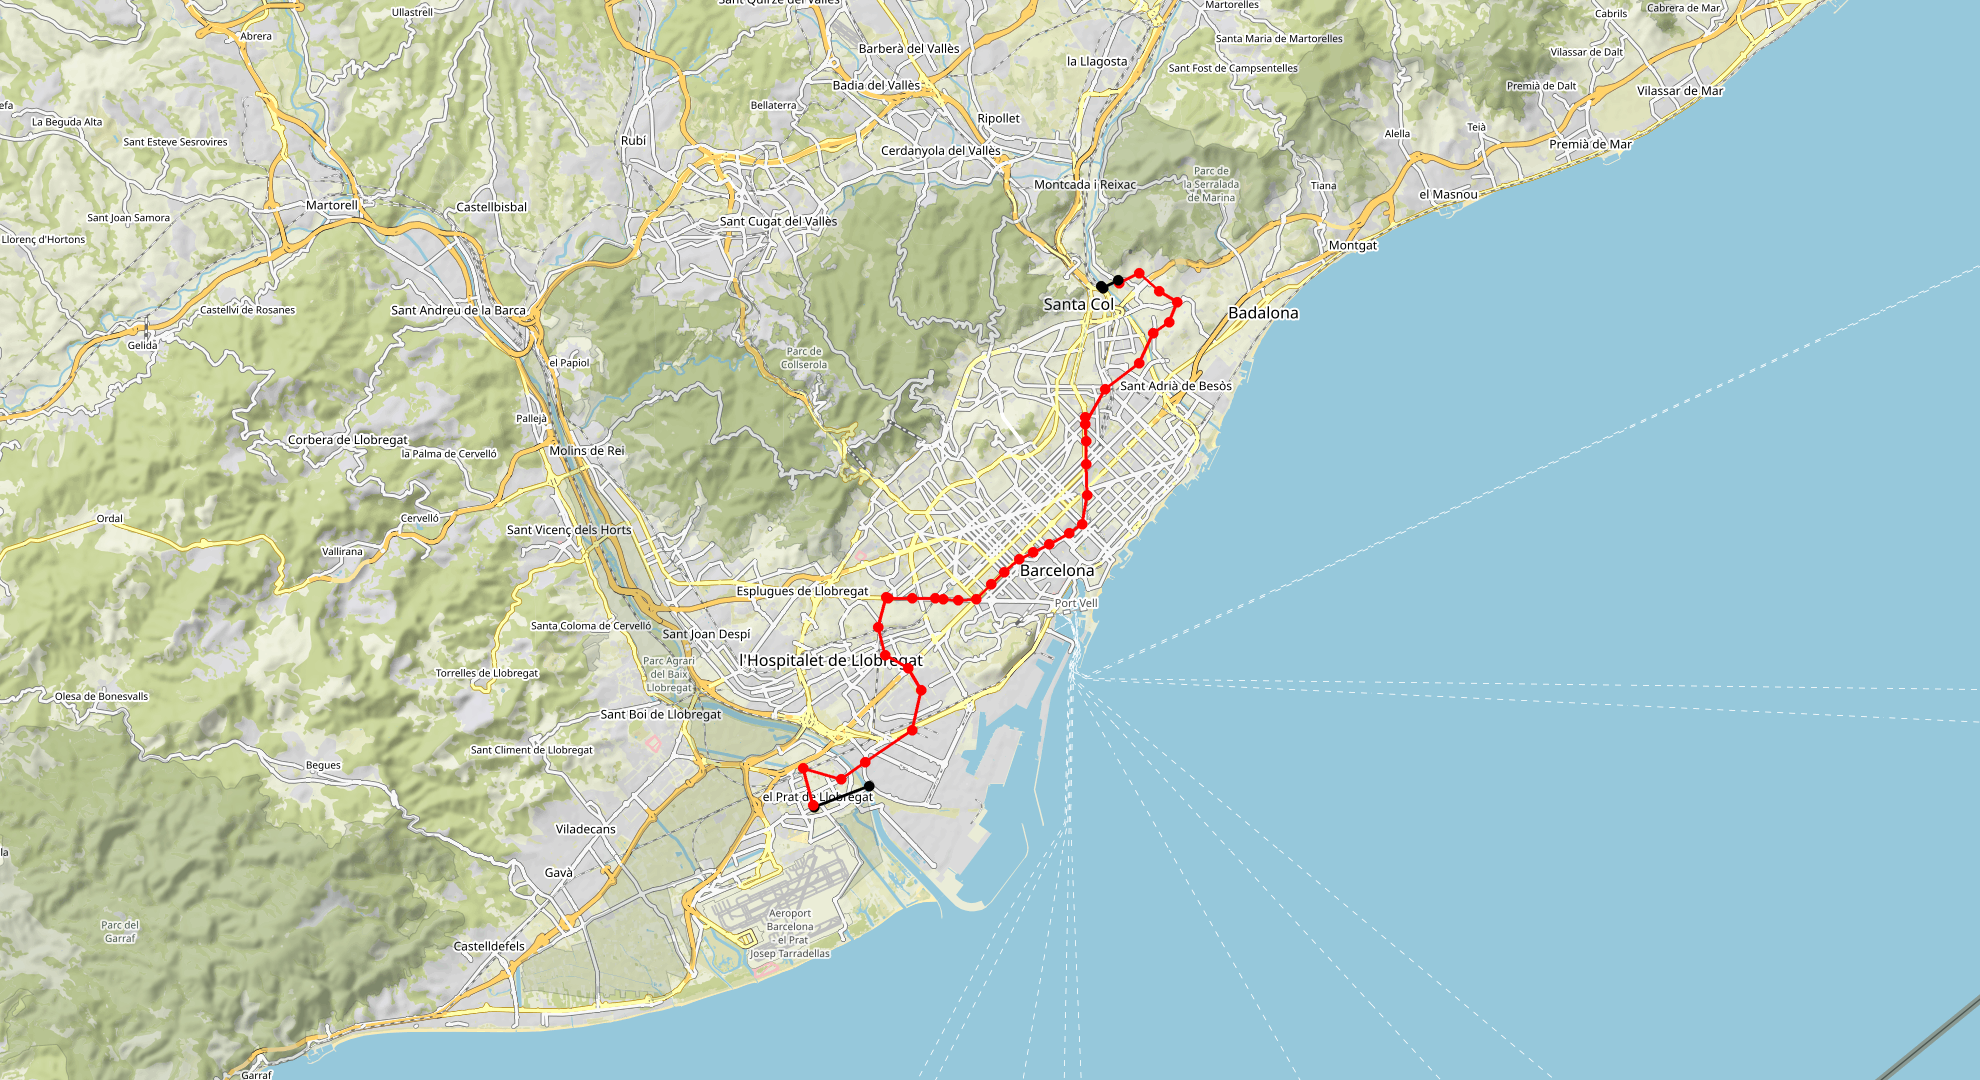
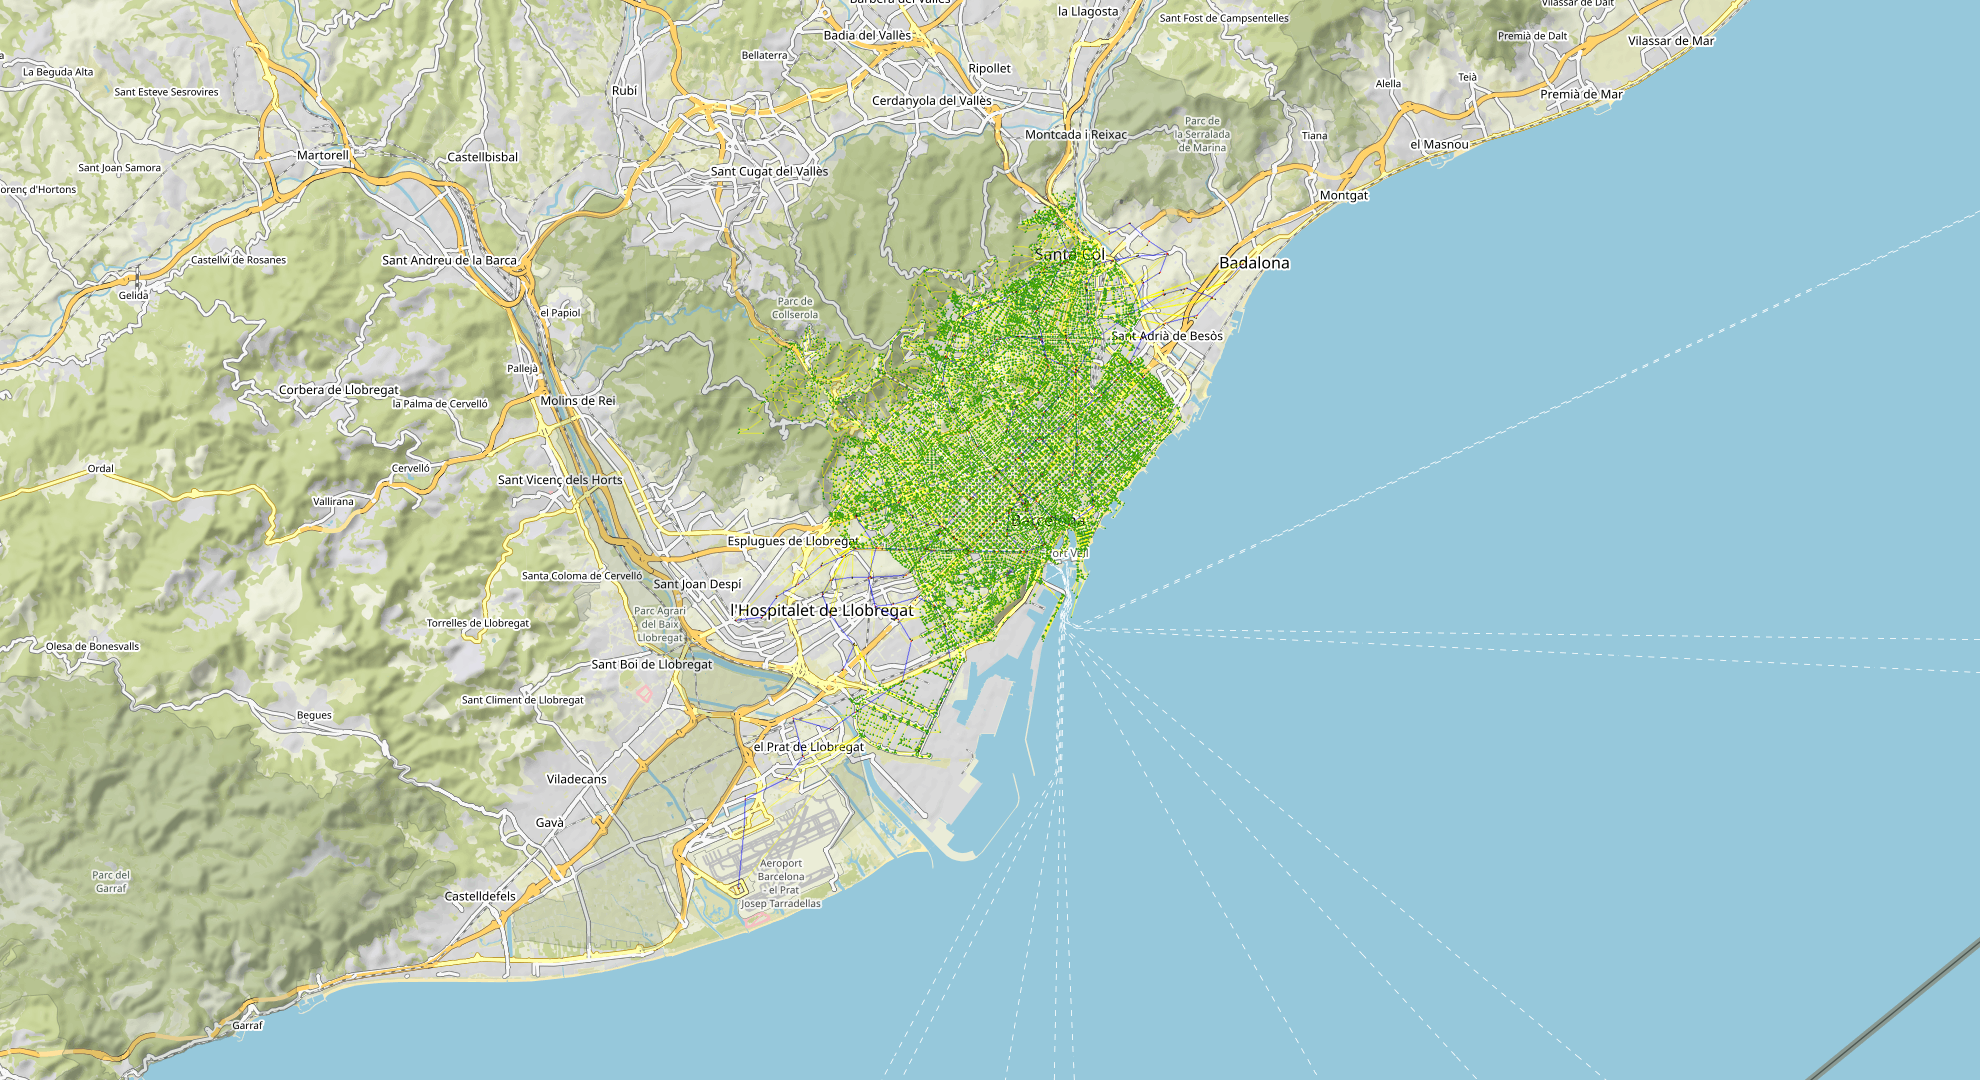
noyhing here

diff --git a/city.py b/city.py
@@ -7,8 +7,8 @@ from metro import Position, get_metro_graph, MetroGraph, Access, Station
 import os
 from typing import Optional, Tuple, List, Union, Dict
 from dataclasses import dataclass
-
 from typing_extensions import TypeAlias
+
 
 @dataclass
 class St_node:
@@ -146,6 +146,9 @@ def show(g: CityGraph) -> None:
 
 def plot(g: CityGraph, filename: str) -> None:
     map = staticmap.StaticMap(1980, 1080)
+
+    colours = {Access : "black", St_node: "brown", }
+
     for node in g.nodes:
         if type(node) == Station:
             map.add_marker(staticmap.CircleMarker(node.pos, "red", 1))
@@ -182,5 +185,6 @@ def plot_path(g: CityGraph, p: Path, filename: str) -> None:
 
 c_t = load_city_graph("./graph.gpickle","./city_graph.gpickle")
 o_g = load_osmnx_graph("./graph.gpickle")
-plot_path(c_t, find_path(o_g,c_t,(2.0713,41.2877),(2.1986,41.4592)),"./Cit") # there is a bug here for some reason
+plot(c_t,"./Cit" )
+#plot_path(c_t, find_path(o_g,c_t,(2.0713,41.2877),(2.1986,41.4592)),"./Cit") # there is a bug here for some reason
 # some nodes from osmnx have not been added, must fix build_city_graph

diff --git a/bot.py b/bot.py
@@ -1,17 +1,18 @@
+import os
 import restaurants
-from city import St_node
 import city
+from typing_extensions import TypeAlias
 from telegram.ext import Updater, CommandHandler, MessageHandler
 from telegram.ext.filters import Filters
+from city import St_node
 from typing import List
-import os
 
 class Bot:
-    st_graph: city.OsmnxGraph
-    city_graph: city.CityGraph
-    restaurants: restaurants.Restaurants
-    restaurants_of_the_search: restaurants.Restaurants
-    coord = List[int] # (latitude, longitude)
+    st_graph: TypeAlias = city.OsmnxGraph
+    city_graph: TypeAlias = city.CityGraph
+    restaurants: TypeAlias = restaurants.Restaurants
+    restaurants_of_the_search: TypeAlias = restaurants.Restaurants
+    coord : TypeAlias = List[int, int] # (latitude, longitude)
 
 
     def __init__(self) -> None:

diff --git a/metro.py b/metro.py
@@ -142,7 +142,7 @@ def plot(g: MetroGraph, filename: str) -> None:
     """
     :param g: a graph of the metro of the city
     :param filename: a path and name to save the image
-    :effect: an image of g will be saved in filename  
+    :effect: an image of g will be saved in filename
     """
 
     map = staticmap.StaticMap(1980, 1080)
